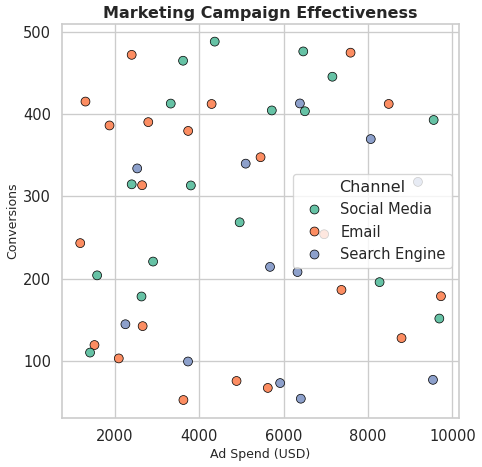
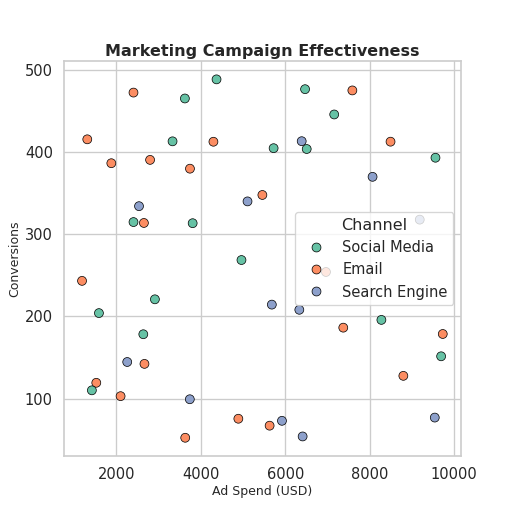
Add valid seaborn scatterplot chart2

diff --git a/chart.py b/chart.py
@@ -18,8 +18,8 @@ df = pd.DataFrame({
 })
 
 # Create the scatterplot
-plt.figure(figsize=(8, 8))  # 8 inches * 64 dpi = 512px
-scatter = sns.scatterplot(
+plt.figure(figsize=(8, 8), dpi=64)  # Exactly 512x512 pixels
+sns.scatterplot(
     data=df,
     x="Ad_Spend_USD",
     y="Conversions",
@@ -34,5 +34,6 @@ plt.title("Marketing Campaign Effectiveness", fontsize=18, fontweight='bold')
 plt.xlabel("Ad Spend (USD)", fontsize=14)
 plt.ylabel("Conversions", fontsize=14)
 
-# Save chart as 512x512 pixels
-plt.savefig("chart.png", dpi=64, bbox_inches='tight')
+# Save chart without trimming — ensures exact size
+plt.savefig("chart.png", dpi=64)
+plt.close()
